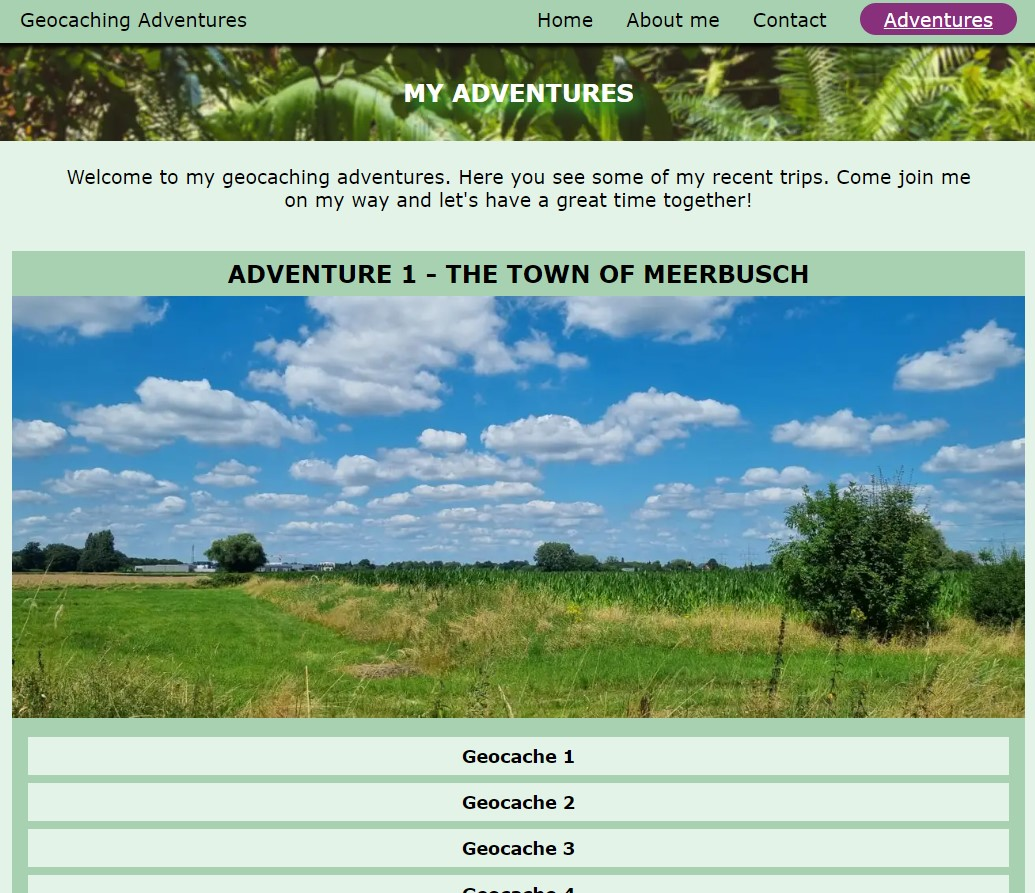
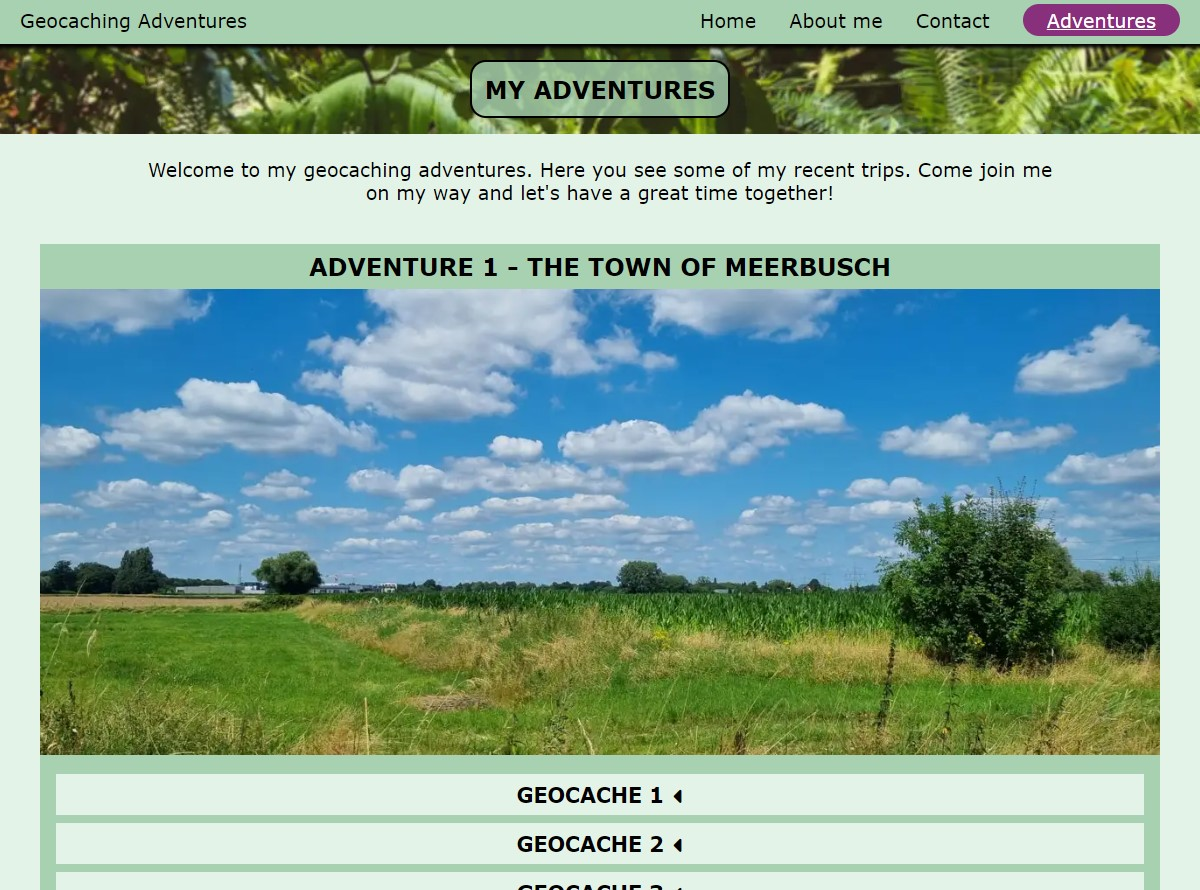
Update adventures section in readme to reflect dropdown arrow changes

diff --git a/README.md b/README.md
@@ -205,7 +205,7 @@ A fracture of the content is already shown in the initial site view as a spoiler
 ## Adventures page
 
 ### Introduction and sample adventures
-* The user gets welcomed on the adventure page and is offered to join in on the taken adventures listed further down below. There, two sample adventures were added to give a taste of the hobby. Every dropdown menu can be expanded to reveal further details.
+* The user gets welcomed on the adventure page and is offered to join in on the taken adventures listed further down below. There, two sample adventures were added to give a taste of the hobby. Every dropdown menu can be expanded to reveal further details. The attached arrow rotates by 90 degree once the button is clicked.
 
 ![Screenshot of the adventure page's introduction section](docs/adventures-page.jpg)
 
